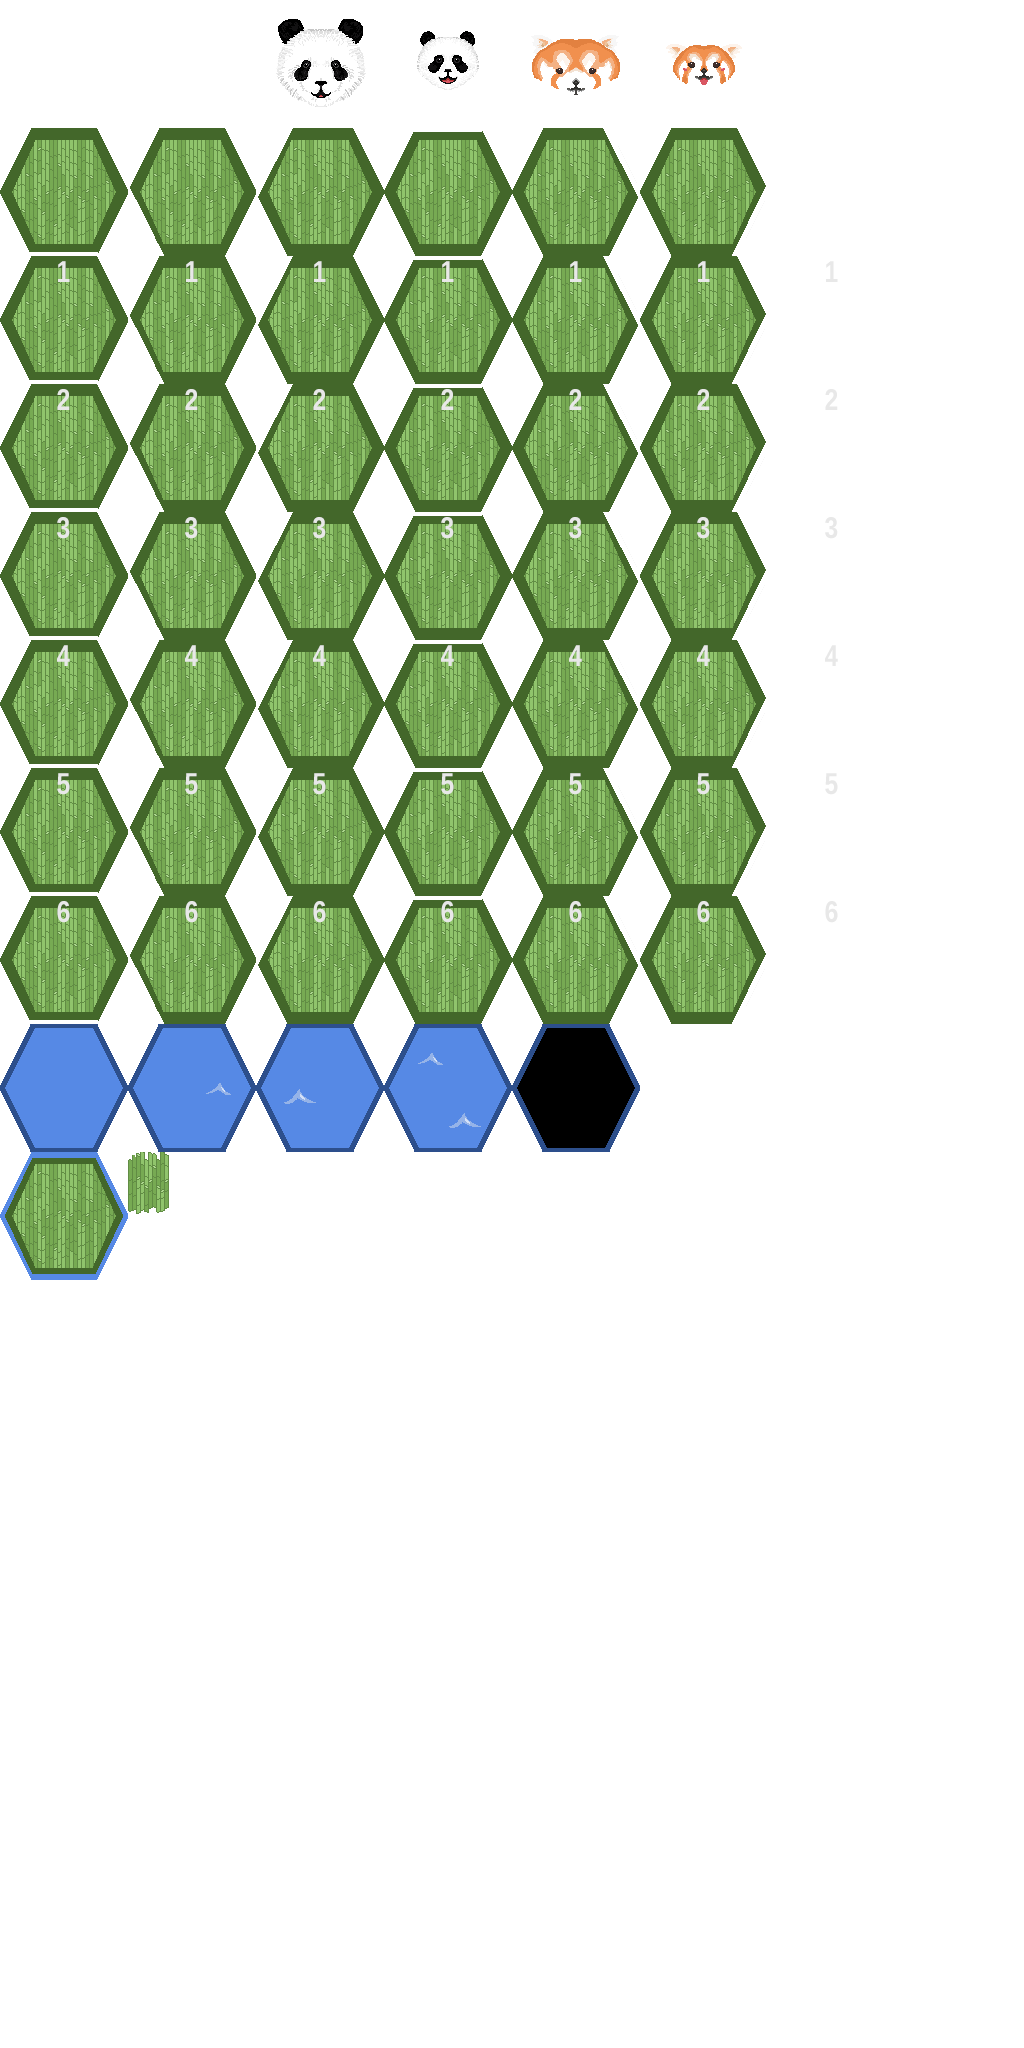
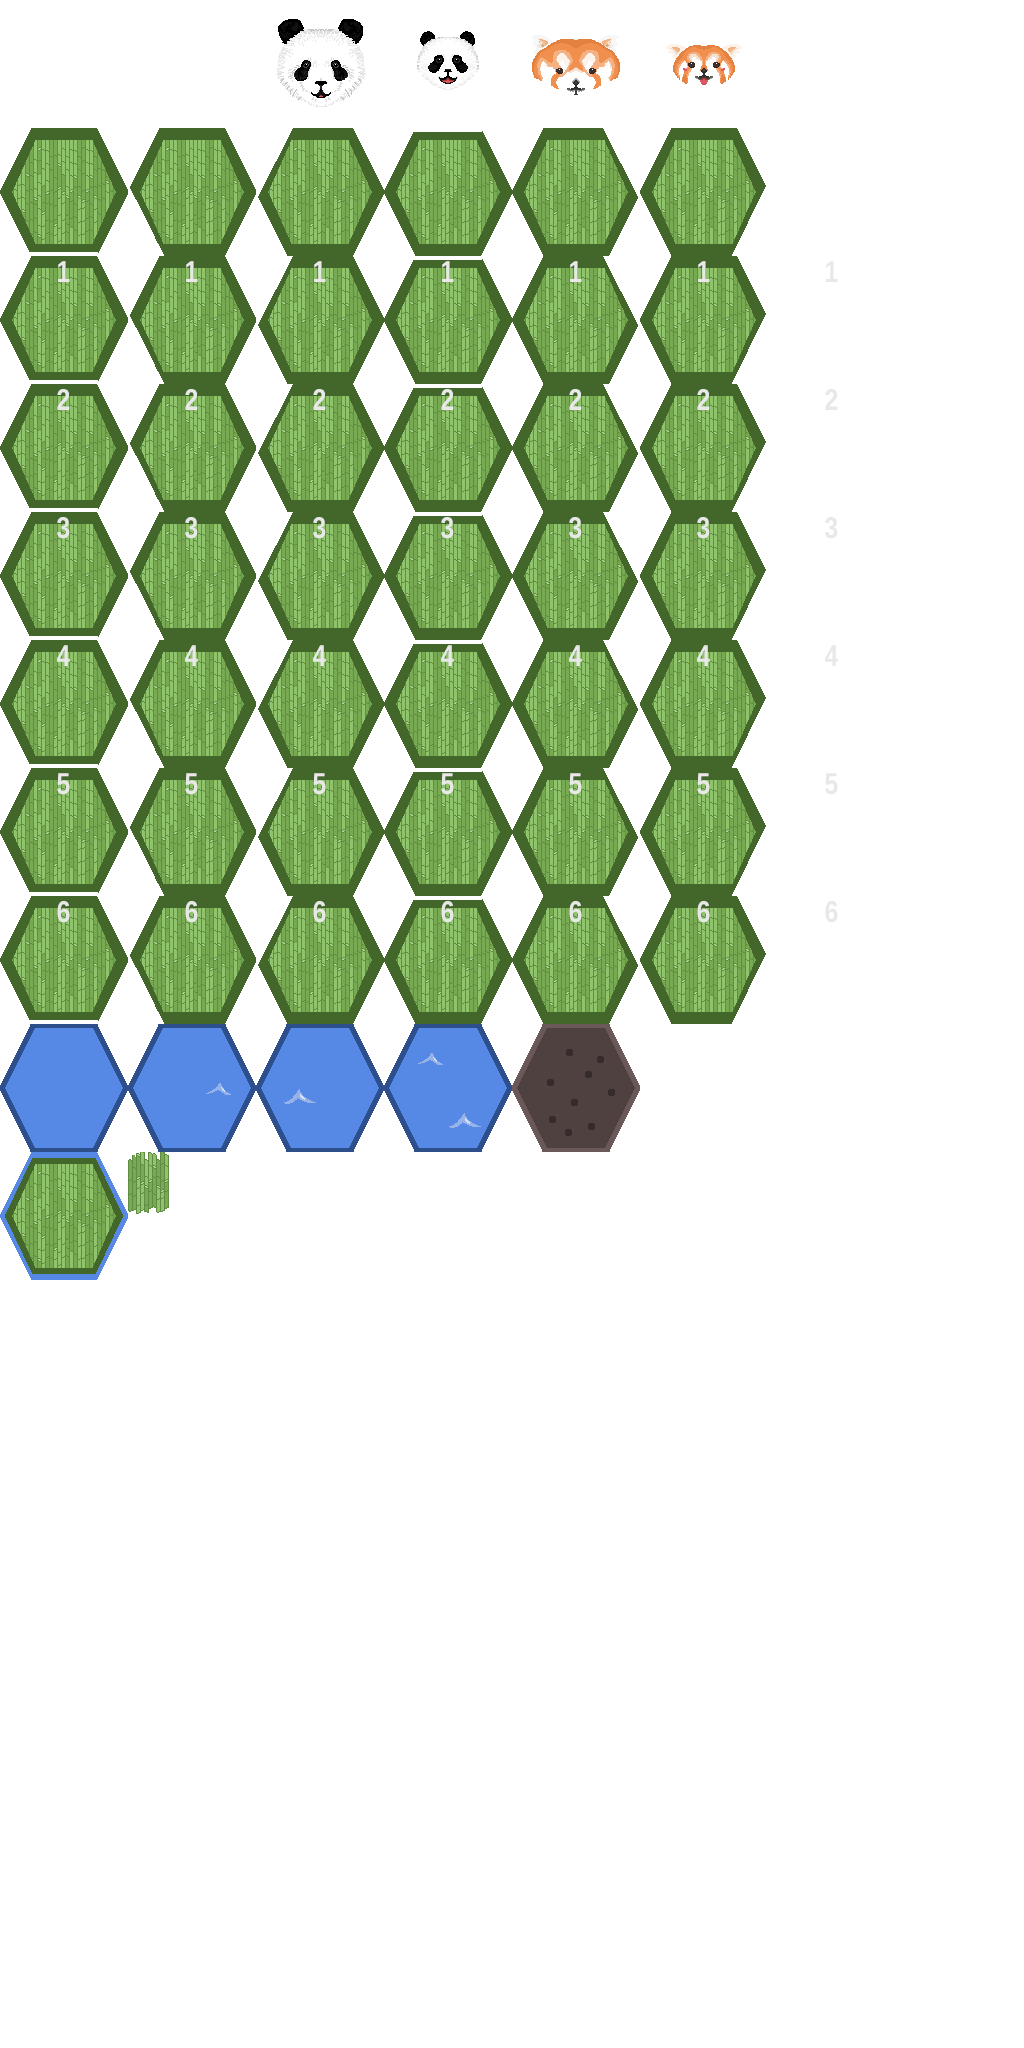
modified texture of obstacle

Changed region(s): [[0.5, 0.5, 0.625, 0.5625]]

diff --git a/www/static/js/parser.js b/www/static/js/parser.js
@@ -9,6 +9,7 @@ function parseJSON(raw)
     // Parse the Json data
     try {
         var obj = JSON.parse(raw);
+        //console.log(obj);
     } catch {
         return null;
     }
@@ -41,7 +42,7 @@ function parseJSON(raw)
                 gameState.map[y][x].bridge = new BridgeTile(
                     cell['value'],
                     directionIntFromFullStr(cell['direction']),
-                    cell['is_start'] ? '+' : '-',
+                    cell['is_start'] ? 1 : -1,
                     [x, y]
                 )
                 break;
@@ -51,6 +52,7 @@ function parseJSON(raw)
         }
     }
 
+    // points & babies
     gameState.players['1'].points = obj.players[0].score;
     gameState.players['2'].points = obj.players[1].score;
     gameState.players['1'].babies_on_back_1 = obj.players[0].pandas[0].saved_babies;
@@ -58,7 +60,28 @@ function parseJSON(raw)
     gameState.players['2'].babies_on_back_1 = obj.players[1].pandas[0].saved_babies;
     gameState.players['2'].babies_on_back_2 = obj.players[1].pandas[1].saved_babies;
 
+    // actions
+    for (let action of obj['players'][0]['last_actions']) {
+        gameState.actions.push(action);
+    }
+    for (let action of obj['players'][1]['last_actions']) {
+        gameState.actions.push(action);
+    }
+
     return gameState;
+}
+
+function handle_action(action) {
+    switch(action['action_type']) {
+        case 'afficher_debug_drapeau':
+            let debug_drapeau = action['debug_drapeau'];
+            let pos = [action['pos'].x, action['pos'].y];
+            change_debug_flag(debug_drapeau, pos);
+            break;
+        default:
+            console.warn('Unknown action type:', action['action_type']);
+            break;
+    }
 }
 
 function directionIntFromFullStr(direction_str)

diff --git a/www/static/js/gamestate.js b/www/static/js/gamestate.js
@@ -116,8 +116,14 @@ class GameState {
     if (debug_flag_map == null) {
       initDebugFlagMap(this);
     }
+    this.actions = [];
   }
   // methods
+  execute_actions() {
+    for (let action of this.actions) {
+      handle_action(action);
+    }
+  }
   initMap() {
     let map = Array.from(Array(this.height), () => new Array(this.width));
     for (let i = 0; i < this.height; i++) {
@@ -358,12 +364,22 @@ function loadGameStateFromMapStr(str) {
 }
 
 
-
-function draw_debug_flag(x, y) {
+function draw_debug_flag(x, y, enum_value) {
+  let color;
+  if (enum_value == 1) {
+    color = 0x0000ff;
+  } else if (enum_value == 2) {
+    color = 0x00ff00;
+  } else if (enum_value == 3) {
+    color = 0xff0000;
+  } else {
+    console.warn('Unknown debug flag enum', enum_value);
+    color = 0xbbbbbb;
+  }
   let [fx, fy] = getCoords(x, y);
   let text = new PIXI.Text(
         'FLAG',
-        {fontFamily : 'Arial', fontSize : 18, fill : 0, align : 'center', fill: 0xff5050});
+        {fontFamily : 'Arial', fontSize : 18, fill : 0, align : 'center', fill: color});
     text.anchor.set(
         0.5,
         0.5); // sets the anchor to the center, I think. Looks crap without it
@@ -372,11 +388,8 @@ function draw_debug_flag(x, y) {
     app.stage.addChild(text);
 }
 
-function add_debug_flag(x, y) {
-  debug_flag_map[y][x] = 1;
-}
-
-function delete_debug_flag(x, y) {
-  debug_flag_map[y][x] = 0;
+function change_debug_flag(debug_drapeau, pos) {
+  let [x, y] = pos;
+  debug_flag_map[y][x] = debug_drapeau;
 }
 

diff --git a/www/static/js/graphics.js b/www/static/js/graphics.js
@@ -144,7 +144,7 @@ function drawMapLayer(layer, mode) {
 
             if (mode == 2) {
                 if (tile != 0)
-                    draw_debug_flag(i, j);
+                    draw_debug_flag(i, j, tile);
                 continue;
             }
 
@@ -166,7 +166,7 @@ function drawMapLayer(layer, mode) {
                     let direction = DIRECTIONS[tile.bridge.direction - 1];
                     tileName = `pont_${tile.bridge.value}_${direction}`;
                 } else if (tile.isObstacle()) {
-                    // TODO: enlever ce commentaire. -> tileName = 'obstacle';
+                    tileName = 'obstacle';
                 } else {
                     let index = getWaterTileIndex(i, j) + 1;
                     tileName = `eau${index}`;
@@ -207,6 +207,7 @@ function updateView() {
     clearTiles();
 
     // Draw layers in order (background then foreground)
+    gameState.execute_actions();
     drawMapLayer(gameState.map, 0);
     drawMapLayer(gameState.panda_map, 1);
     drawMapLayer(debug_flag_map, 2);
